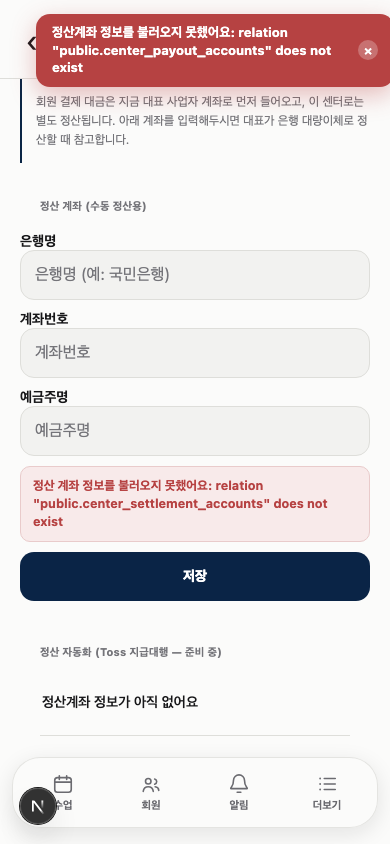
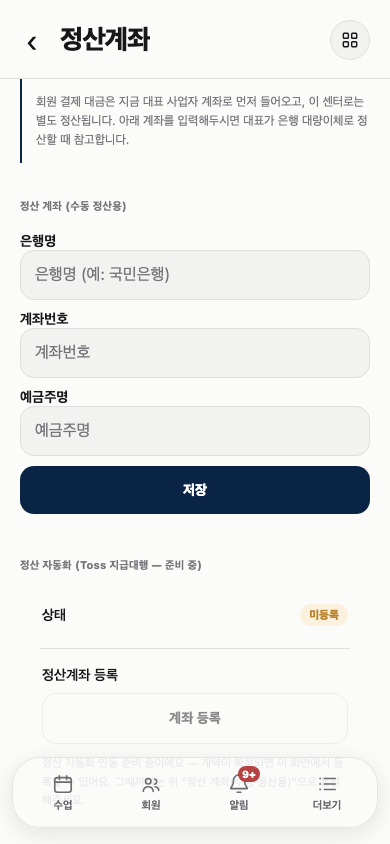
fix(ui): V04 정산계좌 섹션 제목을 입력과 같은 왼쪽 선에 정렬, 증거 스크린샷을 오류 배너 없는 화면으로 교체
Claude-Session: https://claude.ai/code/session_01HGZu9cGTo9NsPC6xCHaP4N

diff --git a/tests/rls-real/visualQa.ui.spec.ts b/tests/rls-real/visualQa.ui.spec.ts
@@ -122,6 +122,8 @@ for (const [tn, theme] of THEMES) {
       expect(b!.x, `${w}px 입력 왼쪽 여백`).toBeGreaterThanOrEqual(14);
       expect(w - (b!.x + b!.width), `${w}px 입력 오른쪽 여백`).toBeGreaterThanOrEqual(14);
       expect(save!.x + save!.width, `${w}px 저장 버튼`).toBeLessThanOrEqual(w - 14 + 1);
+      const heading = await page.locator(".workspace-form-panel .menu-section-label").first().boundingBox();
+      expect(Math.abs(heading!.x - b!.x), `${w}px 섹션 제목과 입력의 왼쪽 정렬`).toBeLessThanOrEqual(1);
       expect(await noOverflow(page)).toBe(true);
       if (w === 390) await shot(page, `V04-settlement-390-${tn}`);
     }

diff --git a/app/workspace.css b/app/workspace.css
@@ -373,4 +373,5 @@ input[type="radio"] { accent-color: var(--accent); width: 20px; height: 20px; fl
    주변 관리자 화면과 같은 페이지 gutter 를 쓴다(데스크톱 규칙은 min-width:768px 쪽에 그대로). */
 @media (max-width: 767px) {
   .manager-v3-content .settlement-workspace { padding: 0 var(--page-gutter) 24px; }
+  .manager-v3-content .settlement-workspace .workspace-form-panel .menu-section-label { padding-inline: 0; }   /* 섹션 제목을 라벨·입력과 같은 왼쪽 선에 맞춘다(공통 .menu-section-label 의 20px padding 이중 적용 방지) */
 }
